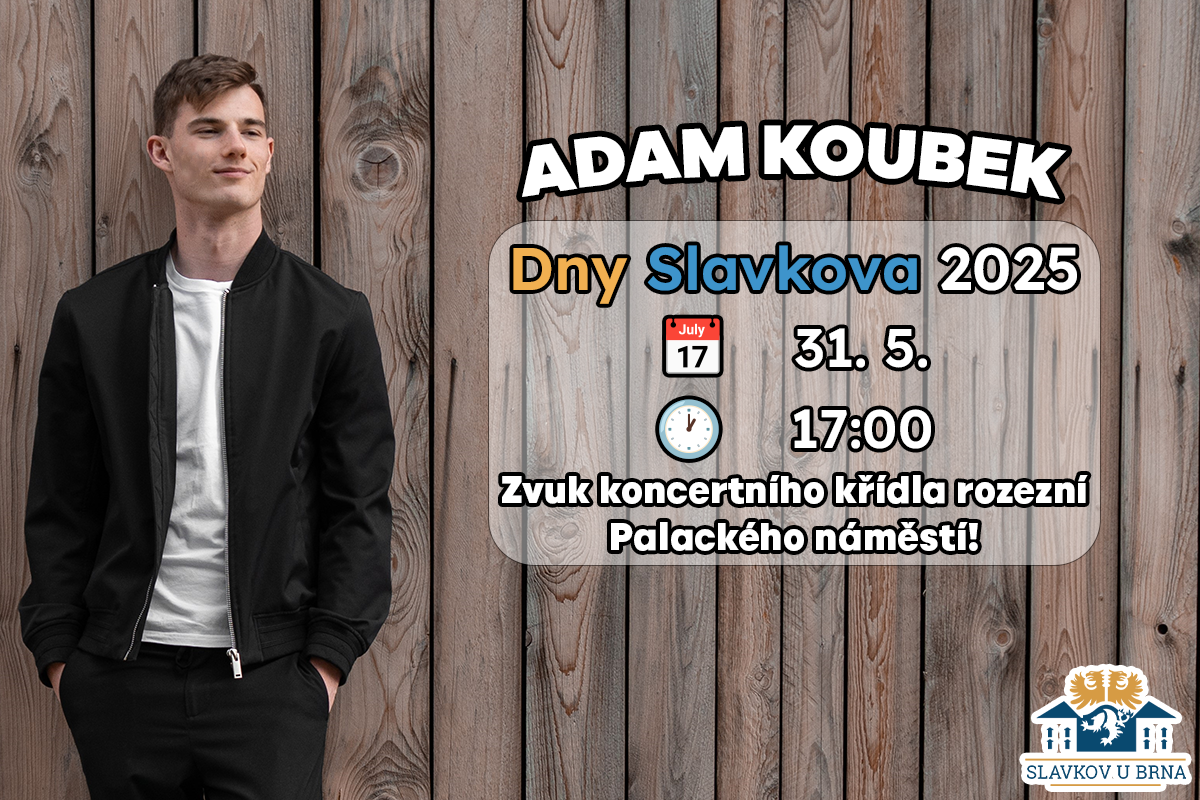
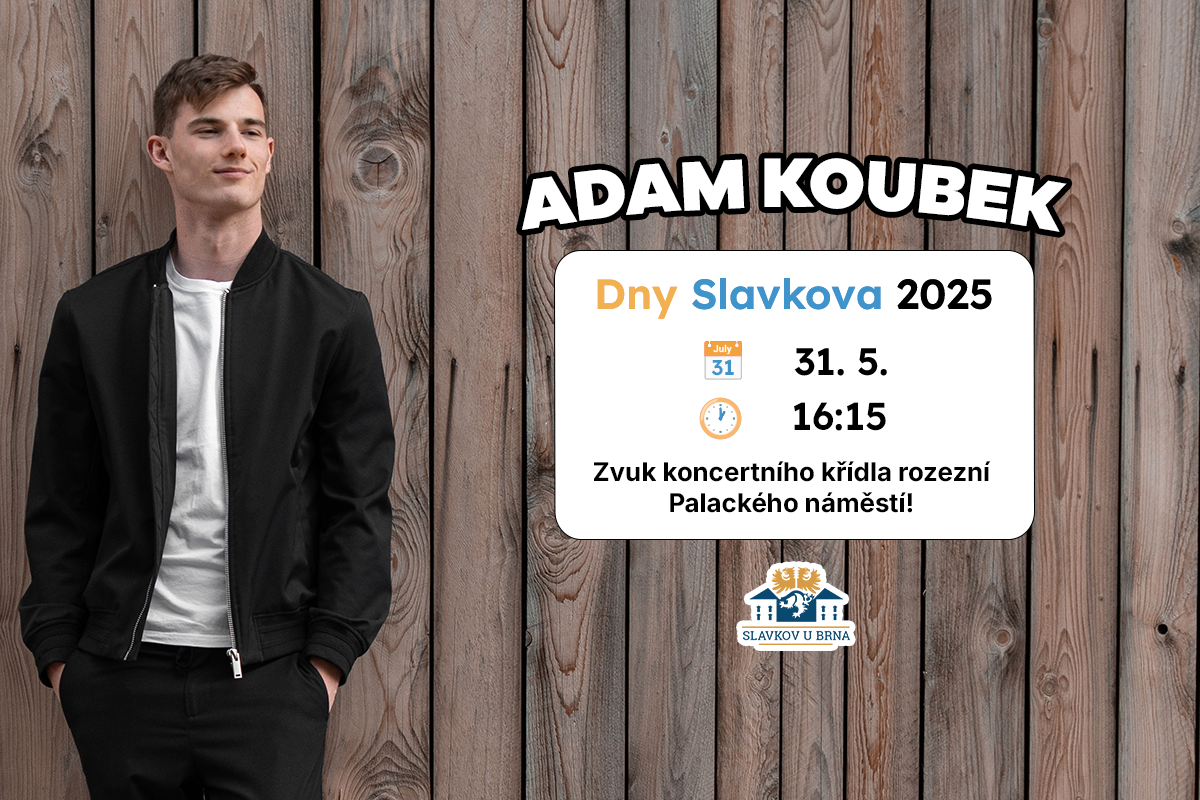
Jedno slovo jsem zmenil

Changed region(s): [[0.4008, 0.125, 0.925, 0.8125], [0.8325, 0.8125, 1.0, 1.0]]

diff --git a/koncerty.html b/koncerty.html
@@ -41,7 +41,7 @@
     <div class="textik">
       <h2><a href="https://www.slavkovak.cz/akce/dny-slavkova-6/" target="_blank">31. 5. 2025 - Dny Slavkova</a></h2>
       <div class="event-content">
-        <img src="images/koncerty/dnyslavkovka.png" alt="Dny Slavkova" class="event-image">
+        <img src="images/koncerty/dnyslavkova.png" alt="Dny Slavkova" class="event-image">
         <p>
           🎹 Dny Slavkova 2025 <br>
           Zazní filmová hudba, popové hity a další oblíbené melodie. <br>
